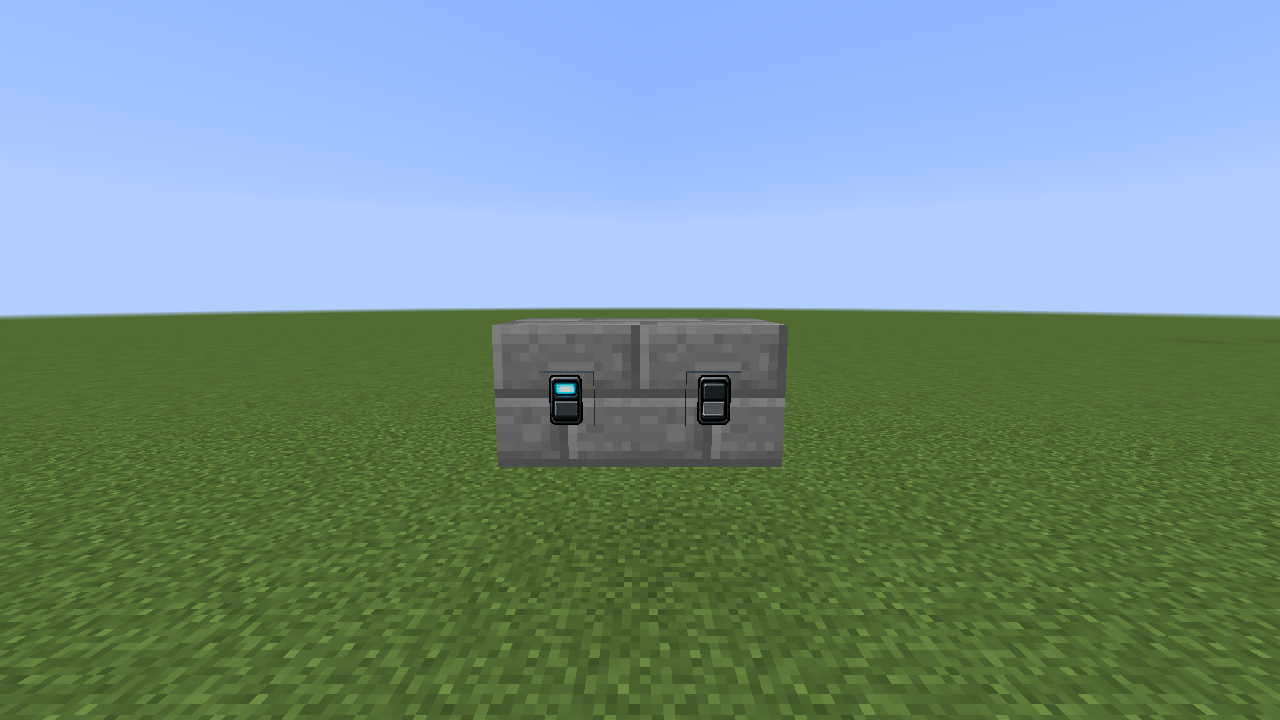
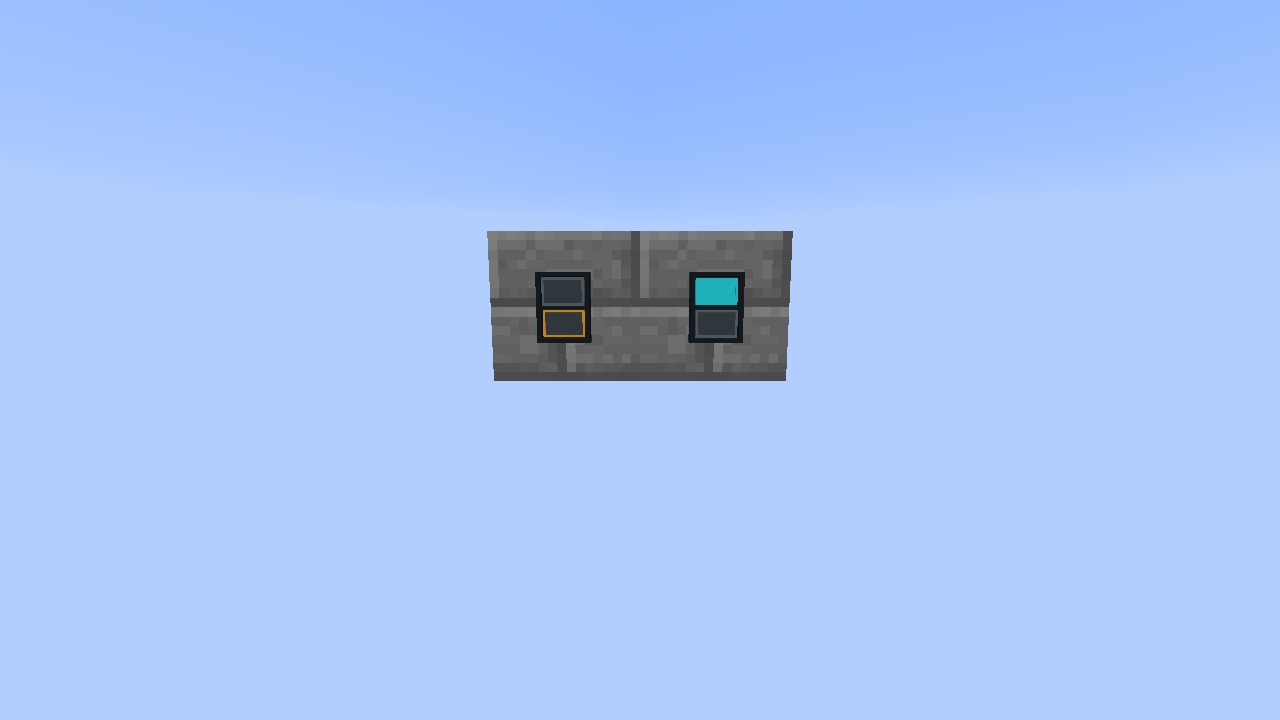
Refresh the compact Rocker Switch and Wall Slider gallery

diff --git a/testclient/export_gallery.py b/testclient/export_gallery.py
@@ -86,7 +86,7 @@ for index, name in enumerate(("porthole", "light-column", "slatted-lamp",
     SHOTS[f"gallery_close_light_{index}"] = f"lights/{name}.png"
 
 for name in ("push_button", "rocker_switch", "compact_power_lever",
-             "industrial_power_lever", "small_power_lever", "large_power_lever", "toggle_switch"):
+             "industrial_power_lever", "small_power_lever", "large_power_lever"):
     SHOTS[f"gallery_close_control_{name}"] = f"controls/{name.replace('_', '-')}.png"
 
 for index, name in enumerate(("command", "companion", "operator",
@@ -151,7 +151,7 @@ FOCUSED_SHOTS = {
     for role in ("bioengineer", "scientist", "hazmat", "repairman", "pilot",
                  "civilian_staff", "spaceship_staff", "security_rescue")
 }
-for name in ("small_power_lever","large_power_lever","compact_power_lever","industrial_power_lever","toggle_switch","wall_slider"):
+for name in ("small_power_lever","large_power_lever","compact_power_lever","industrial_power_lever","rocker_switch","wall_slider"):
     for setting in ("raised_6px","raised_6px_tilted_45"):
         FOCUSED_SHOTS[f"controls_mount_{name}_{setting}"]=f"controls/{name.replace('_','-')}-{setting.replace('_','-')}.png"
 
@@ -173,7 +173,7 @@ SHOTS["gallery_catalog_door_29_large"]="doors/design-slim-glass-large.png"
 
 FOCUSED_SHOTS["channels_13"]="controls/power-lever-config.png"
 FOCUSED_SHOTS["channels_14"]="controls/industrial-power-lever-config.png"
-FOCUSED_SHOTS["channels_15"]="controls/toggle-switch-config.png"
+FOCUSED_SHOTS["channels_15"]="controls/rocker-switch-config.png"
 
 FOCUSED_SHOTS["armor_worn_and_icons"] = "armor/block-materials.png"
 FOCUSED_SHOTS["armor_stand_picker"] = "armor/stand-picker.png"

diff --git a/docs/gallery/controls.md b/docs/gallery/controls.md
@@ -7,8 +7,7 @@ These controls generate local redstone power and can participate in virtual reds
 | Control | States | Use |
 | --- | --- | --- |
 | Push Button | ![Push Button states](../images/gallery/controls/push-button.png) | Momentary input for doors and circuits. |
-| Rocker Switch | ![Rocker Switch states](../images/gallery/controls/rocker-switch.png) | Persistent on/off input. |
-| Toggle Switch | ![Toggle Switch states](../images/gallery/controls/toggle-switch.png) | Split rocker with amber Off and a cyan top button when On. |
+| Rocker Switch | ![Rocker Switch states](../images/gallery/controls/rocker-switch.png) | Split rocker with amber Off and a cyan top button when On. |
 | Industrial Power Lever: Compact | ![Compact Power Lever states](../images/gallery/controls/compact-power-lever.png) | Small lever control. |
 | Industrial Power Lever: Industrial | ![Industrial Power Lever states](../images/gallery/controls/industrial-power-lever.png) | Larger lever control. |
 | Power Lever: Small | ![Small Power Lever states](../images/gallery/controls/small-power-lever.png) | Twin arms and shared grip; 67.5-degree throw. |
@@ -35,20 +34,19 @@ or **Size: Large** and then **Done**. Size survives saving, pick-block and
 breaking/replacing; the Duplifier’s **Signal Levels** option copies it. Existing
 Large Power Levers retain their original size.
 
-## Toggle Switch
+## Rocker Switch
 
-Toggle Switch uses a compact **6 × 8 pixel** plate with a recessed, split
+Rocker Switch uses an approximately **5.5 × 7.4 pixel** plate with a recessed, split
 rocker in the newer levers’ solid-color palette. **Off** presses the bottom
 half with an amber border; **On** presses the fully cyan top half. Normal right-click toggles it and
 outputs 0 or 15 redstone power.
 
 Mount it on a wall, floor or ceiling. Floor and ceiling orientation follows
-placement. It uses the Rocker Switch’s channel configuration and linked latch
+placement. It retains its channel configuration and linked latch
 behavior, including the Configurizer in survival and channel-preserving
 pick-block. Its mounting base and rocker have solid collision.
 
-Craft one Toggle Switch from **one stick**, **one Industrial Alloy Ingot** and
-**one redstone dust**, in any arrangement.
+Craft one Rocker Switch with **one stick above one Industrial Alloy Ingot**.
 
 ## Signal-level controls
 
@@ -58,6 +56,7 @@ Creative-mode shift-right-click configures channels and low/high limits. Default
 are 0, 5, 10 and 15. Their numeric outputs drive physical redstone and shared
 channels, including interactive screen sliders and Programmable Trigger blocks.
 
+Rocker Switch and Wall Slider use compact models reduced by 8%.
 All four detailed models mount on walls, floors and ceilings. The floor-mounted
 Wall Slider puts Off nearest the placing player. Airliner handles move together;
 Fighter buttons are decorative. See the [signal-level guide and GIF examples](version-1.6.md)
@@ -72,7 +71,7 @@ controls keep their appearance. Type is preserved when saving, pick-block and
 breaking/replacing; the Duplifier’s **Signal Levels** option copies it.
 
 All three throttle types, **Wall Slider**, **Power Lever**, **Industrial Power
-Lever** and **Toggle Switch** have configurable bases.
+Lever** and **Rocker Switch** have configurable bases.
 Shift-right-click a placed control, or right-click it with the Configurizer in
 survival, to open its channel/settings dialog. Set **Base height** to **Standard**
 (the original minimum), **+2 px**, **+4 px** or **+6 px**. The solid mounting plate extends;
@@ -97,7 +96,7 @@ All controls retain their original minimum base height when set to Standard/Flat
 ![Industrial Power Lever size, height and tilt settings](../images/gallery/controls/industrial-power-lever-config.png)
 
 [Power Lever settings](../images/gallery/controls/power-lever-config.png) and
-[Toggle Switch settings](../images/gallery/controls/toggle-switch-config.png) use the same mounting buttons.
+[Rocker Switch settings](../images/gallery/controls/rocker-switch-config.png) use the same mounting buttons.
 
 All pictures below use the Off detent so the mounting settings can be compared directly.
 
@@ -129,5 +128,5 @@ The same upright extension and filled tilt wedge are available on these controls
 | Power Lever: Large | ![Power Lever: Large raised](../images/gallery/controls/large-power-lever-raised-6px.png) | ![Power Lever: Large raised and tilted](../images/gallery/controls/large-power-lever-raised-6px-tilted-45.png) |
 | Industrial Power Lever: Compact | ![Industrial Power Lever: Compact raised](../images/gallery/controls/compact-power-lever-raised-6px.png) | ![Industrial Power Lever: Compact raised and tilted](../images/gallery/controls/compact-power-lever-raised-6px-tilted-45.png) |
 | Industrial Power Lever: Industrial | ![Industrial Power Lever: Industrial raised](../images/gallery/controls/industrial-power-lever-raised-6px.png) | ![Industrial Power Lever: Industrial raised and tilted](../images/gallery/controls/industrial-power-lever-raised-6px-tilted-45.png) |
-| Toggle Switch | ![Toggle Switch raised](../images/gallery/controls/toggle-switch-raised-6px.png) | ![Toggle Switch raised and tilted](../images/gallery/controls/toggle-switch-raised-6px-tilted-45.png) |
+| Rocker Switch | ![Rocker Switch raised](../images/gallery/controls/rocker-switch-raised-6px.png) | ![Rocker Switch raised and tilted](../images/gallery/controls/rocker-switch-raised-6px-tilted-45.png) |
 | Wall Slider | ![Wall Slider raised](../images/gallery/controls/wall-slider-raised-6px.png) | ![Wall Slider raised and tilted](../images/gallery/controls/wall-slider-raised-6px-tilted-45.png) |

diff --git a/CHANGELOG.md b/CHANGELOG.md
@@ -2,9 +2,11 @@
 
 ## 1.7
 
+- Reduce Rocker Switch and Wall Slider models by 8%, with matching collision and selection bounds.
+
 - Fit Slim Glass artwork and glazing inside framed door openings, preserving the original thin rails instead of cropping them beneath the outer frame. Bare doors keep their full-size artwork.
 
-- Add upright base-height extensions and filled tilt wedges to Power Lever, Wall Slider, Toggle Switch and Industrial Power Lever, with shared persistence, copying, padded icons and solid collision. Merge Compact/Industrial lever sizes into one Industrial Power Lever item. Make the Toggle Switch’s top face fully cyan while On.
+- Add upright base-height extensions and filled tilt wedges to Power Lever, Wall Slider, Rocker Switch and Industrial Power Lever, with shared persistence, copying, padded icons and solid collision. Merge Compact/Industrial lever sizes into one Industrial Power Lever item. Make the Rocker Switch’s top face fully cyan while On.
 
 - Add Slim Glass artwork for regular and Large Programmable Doors at both supported resolutions, with the existing translucent glass shimmer behind its clear openings.
 
@@ -12,7 +14,7 @@
 
 - Merge twin-arm power levers into Power Lever with a Small/Large configuration button, preserved legacy sizes and configured drops. Shorten the Small arm by one pixel.
 
-- Add Toggle Switch: a compact solid-color split rocker with Rocker Switch channel/latch behavior, wall/floor/ceiling mounts, an amber bottom border while Off and a fully cyan top button while On, with a stick/alloy/redstone recipe.
+- Redesign Rocker Switch as a compact solid-color split rocker, with wall/floor/ceiling mounts, an amber bottom border while Off and a fully cyan top button while On. Retain its block ID and stick/alloy recipe; remove the separate Toggle Switch block.
 
 - Recess twin-arm power lever sides inside their pivot caps to prevent Z-fighting. Shorten Large Power Lever arms by 2 pixels without changing its angles; increase Small Power Lever’s On angle to 45 degrees for 67.5 degrees of total travel.
 

diff --git a/docs/gallery/version-1.7.md b/docs/gallery/version-1.7.md
@@ -75,15 +75,16 @@ Craft it from two vanilla levers and one Industrial Alloy Ingot. Change
 Large levers retain their size. See the [controls gallery](controls.md) for both
 states and mounting details.
 
-## Toggle Switch
+## Rocker Switch
 
-The new **Toggle Switch** is a compact, solid-color split rocker with only Off and On
+The redesigned **Rocker Switch** is a compact, solid-color split rocker with only Off and On
 positions. Off presses the bottom half with an amber border; On presses the
-top half with an entirely cyan face and border. and it uses the Rocker Switch’s redstone output, channel
+top half with an entirely cyan face and border. It retains its redstone output, channel
 configuration and linked switching. Mount it on walls, floors or ceilings.
 
-Craft it from one stick, one Industrial Alloy Ingot and one redstone dust.
-See the [controls gallery](controls.md#toggle-switch) for the two positions.
+Craft it with one stick above one Industrial Alloy Ingot. Existing Rocker Switches use the new design and keep their channel and mounting orientation.
+Rocker Switch and Wall Slider are 8% smaller, including their selection and collision bounds.
+See the [controls gallery](controls.md#rocker-switch) for the two positions.
 
 ## One configurable throttle
 
@@ -106,7 +107,7 @@ See the [door gallery](doors.md) for regular and large examples.
 
 ## Mounting options on switches and levers
 
-**Power Lever**, **Wall Slider**, **Toggle Switch** and **Industrial Power Lever**
+**Power Lever**, **Wall Slider**, **Rocker Switch** and **Industrial Power Lever**
 now share the throttle’s base options: **Standard / +2 / +4 / +6 px**, **Flat /
 15 / 30 / 45 degrees**, and four tilt directions. Height extends upright from
 the support, with a filled wedge beneath the tilted assembly. The base and
